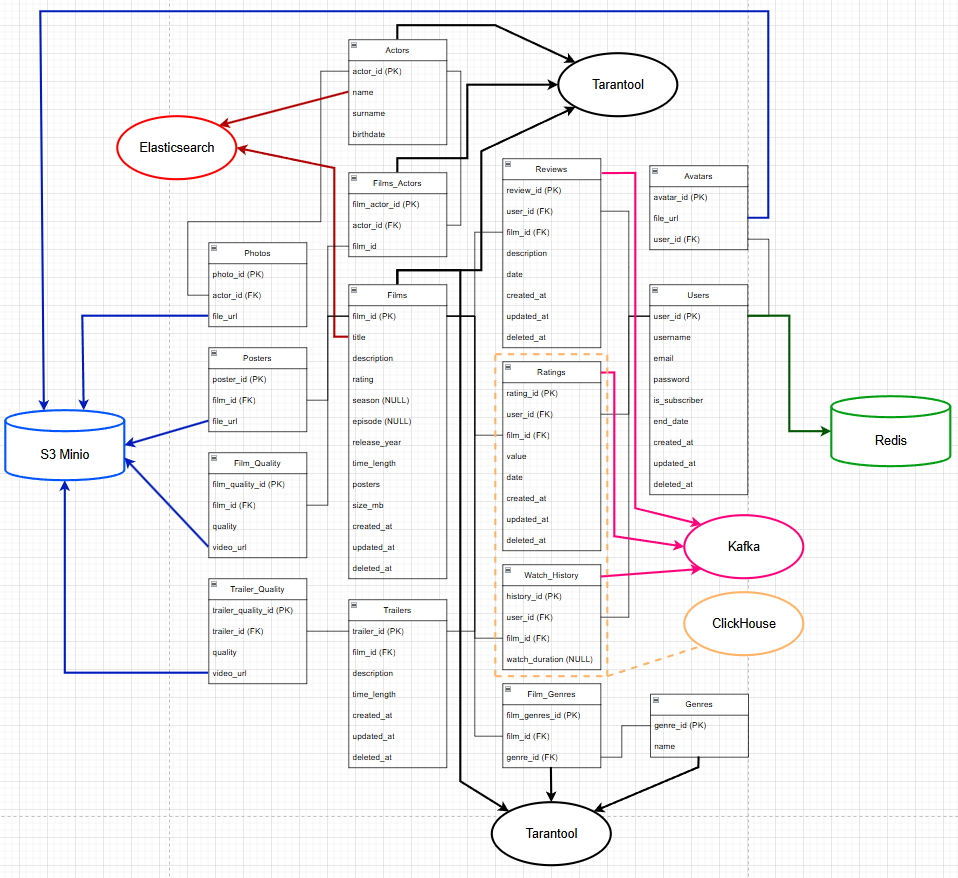
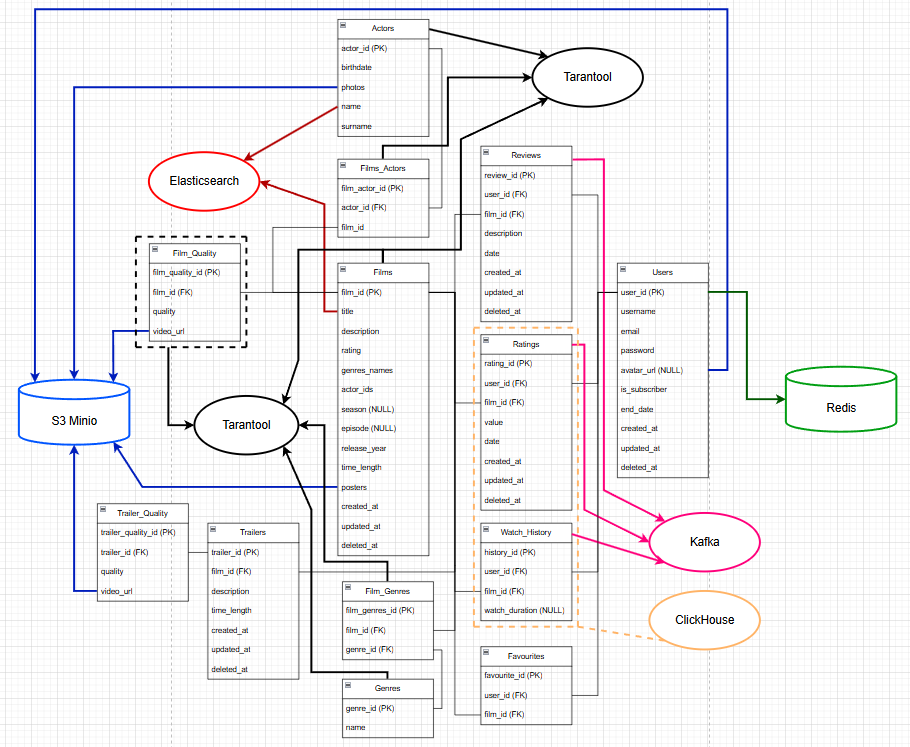
fix: task 5 and 6

Changed region(s): [[0.0, 0.0, 1.0, 1.0], [0.8308, 0.6158, 0.8615, 0.6466], [0.1846, 0.0, 0.2154, 0.0308]]

diff --git a/README.md b/README.md
@@ -60,11 +60,11 @@
 
 ## Продуктовые метрики
 
-Всего на Кинопоиске к концу 2023г. около **11000** тайтлов[^6].
+К началу 2021г. база данных кинопоиска состояла из 817 000 фильмов и сериалов[^6]. Будем считать что к текущему моменту база выросла до 1 000 000 фильмов. При этом, к концу 2023г. лишь около **11000** тайтлов можно посмотреть[^7].
 
-Средняя продолжительность фильма в последние годы возросла до 120-130 минут, согласно анализу данных базы IMDB[^7]. Также, одна серия одного сериала в среднем занимает 40 минут. 
+Средняя продолжительность фильма в последние годы возросла до 120-130 минут, согласно анализу данных базы IMDB[^8]. Также, одна серия одного сериала в среднем занимает 40 минут. 
 
-Таким образом, средний размер одного файла в разрешении **4K** составляет **35 ГБ** (20 ГБ одна 40-минутная серия сериала и 50 ГБ двухчасовой фильм[^8] => (20 ГБ + 50 ГБ)/2 = 35ГБ). Это даёт:
+Таким образом, средний размер одного файла в разрешении **4K** составляет **35 ГБ** (20 ГБ одна 40-минутная серия сериала и 50 ГБ двухчасовой фильм[^9] => (20 ГБ + 50 ГБ)/2 = 35ГБ). Это даёт:
 
 - **Общий объём 4K контента:**
   - `11000 × 35 ГБ = 280000 ГБ = 280 ТБ = 0,385 ПБ`
@@ -79,7 +79,7 @@
 Итоговый объем видеохранилища: **0,562 ПБ**
 
 Далее высчитаем объем пользовательских данных
-К пользовательской информации относятся имя, возраст, описание, пол, страна и город проживания, ссылки на соцсети и интересы. Данная текстовая информация занимает до нескольких килобайт. Кроме того пользователь мжет поставить аватарку на свой профиль. На странице редактирования профиля[^9] можно увидеть информацию о том, что аватар пользователя не должен превышать 2 МБ. Примем эту верхнюю оценку.
+К пользовательской информации относятся имя, возраст, описание, пол, страна и город проживания, ссылки на соцсети и интересы. Данная текстовая информация занимает до нескольких килобайт. Кроме того пользователь мжет поставить аватарку на свой профиль. На странице редактирования профиля[^10] можно увидеть информацию о том, что аватар пользователя не должен превышать 2 МБ. Примем эту верхнюю оценку.
 Расчитаем, насколько ужимается аватар, после её загрузки в профиль на практике.
 
 ![Демографические показатели](assets/squeeze.png)
@@ -92,7 +92,7 @@
 
 Хранение рецензий и оценок
 - **Средний вес одной рецензии:** **1 КБ** (1000 символов ASCII)
-- **Общее количество рецензий:** **834 641**[^10]
+- **Общее количество рецензий:** **834 641**[^11]
 - **Общий объем рецензий:**
   - `1 КБ × 834 641 = 0,8 ГБ`
 - **Запас хранения + оценки:** **1 ГБ**
@@ -111,10 +111,10 @@
 
 - **Авторизация** — в среднем **1 раз в день** (просмотр контента требует авторизации).
 - **Покупка подписки** — обычно пользователь покупает подписку ежемесячно, но так же есть возможно офромить ее на 3, 6 и 12 месяцев. Примем за среднее - 3 месяца, поэтому 1/90 = значит **0,01 раз в день**.
-- **Просмотр контента** — в 2024 году подписчики в среднем смотрят **34,6 тайтлов** и **11 спортивных трансляций** в год[^11]. Примем длительность спортивного события равной средней длительности одного тайтла - 2 часа. Тогда всего за год пользователь смотрит 45,6 * 2 = 91,2 часов. Это равняется 91,2*60/365 = **15 минут в день**.
+- **Просмотр контента** — в 2024 году подписчики в среднем смотрят **34,6 тайтлов** и **11 спортивных трансляций** в год[^12]. Примем длительность спортивного события равной средней длительности одного тайтла - 2 часа. Тогда всего за год пользователь смотрит 45,6 * 2 = 91,2 часов. Это равняется 91,2*60/365 = **15 минут в день**.
 - **Оценка контента** — в 2023 году пользователи оставили **180 млн оценок**, это **6 млн оценок в день**, или **~0,27 оценок на пользователя в день**.
 - **Оставление рецензий** — на платформе **834 641 рецензий**, ежедневно публикуются **~400 новых**, значит **~0,000018 рецензий на пользователя в день**.
-- **Поиск контента** — **4 раза в день**[^12].
+- **Поиск контента** — **4 раза в день**[^13].
 - **Рекомендации** — рекомендательная система строится на основе просмотра интересующего контента и оставлении оценки, а значит перестраивается примерно 0,27 р/день + 15 мин/день **≈ 1 раз в день**.
 - **Добавление в избранное** - по статистике лишь каждый 10-ый фильм пользователь добавляет в избранное, а значит 4*0,1 **~ 0,4 раза в день**
 - **Досмотр контента** - в среднем пользователь заходит на главную страницу **1 раз в день**, но долистывает до списка **каждый 10**, то частота **≈ 0,1 раз в день**
@@ -134,9 +134,9 @@
 
 ### Прирост дискового пространства
 
-Согласно источнику[^13], на конец 2023г, количество подписчиков Кинопоиска на конец 2023г. составляло 11,1 млн. чел. При этом, к концу 2024г. их количество возросло до 14 млн. чел. Значит прирост пользовательских данных за год составляет **(14 000 000 - 11 100 000) * 2 МБ / 22 ≈ 264 000 МБ = 0,264 ТБ**
+Согласно источнику[^14], на конец 2023г, количество подписчиков Кинопоиска на конец 2023г. составляло 11,1 млн. чел. При этом, к концу 2024г. их количество возросло до 14 млн. чел. Значит прирост пользовательских данных за год составляет **(14 000 000 - 11 100 000) * 2 МБ / 22 ≈ 264 000 МБ = 0,264 ТБ**
 
-Как уже было сказано, на Кинопоиске к концу 2023г. было **11000** тайтлов. При этом, к середине 2020г. их было около **8000**[^14]. На основании чего можно сделать вывод, что за год количество тайтлов возрастает примерно на **1000**. Как уже было вычислено, для **11000** тайтлов размер видеохранилища составляет **0,562 ПБ**. Значит прирост дискового пространства в год составит **1/11** часть: **0,562 ПБ / 11 ≈ 0,051 ПБ**
+Как уже было сказано, на Кинопоиске к концу 2023г. было **11000** тайтлов. При этом, к середине 2020г. их было около **8000**[^15]. На основании чего можно сделать вывод, что за год количество тайтлов возрастает примерно на **1000**. Как уже было вычислено, для **11000** тайтлов размер видеохранилища составляет **0,562 ПБ**. Значит прирост дискового пространства в год составит **1/11** часть: **0,562 ПБ / 11 ≈ 0,051 ПБ**
 
 Прирост рецензий и оценок незначителен (порядка 0,5 ГБ), так что ими можно пренебречь.
 
@@ -354,17 +354,18 @@ Kubernetes автоматически распределяет нагрузку 
 - Trailers (1) <--- (M) Trailers_Quality
 - Users (1) <--- (M) Reviews
 - Users (1) <--- (M) Ratings
-- Users (1) <--- (1) Avatars
 - Users (1) <--- (M) Sessions
 - Films (1) <--- (M) Watch_History
 - Users (1) <--- (M) Watch_History
+- Films (1) <--- (M) Favourites
+- Users (1) <--- (M) Favourites
 - Actors (1) <--- (M) Photos
 
 ## Размер данных, консистентность, нагрузка на чтение/запись
 
 | Таблица         | Размер данных | Консистентность | Нагрузка на чтение (RPS) | Нагрузка на запись (RPS) |
 |----------------|--------------|----------------|-----------------|-----------------|
-| Films         | (title (100 байт) + description (500 байт) + rating (4 байта) + release_year (4 байта) + time_length (4 байта) + size_mb (4 байта)) * 11 000 * 4 (разрешения) = **0.0323 ГБ** | Удаляются связанные `film_actors`, `film_genres`, `reviews`. Для `film_quality` - мягкое удаление | Поиск контента (**120** RPS) + Рекомендации (**30** RPS) = **150** RPS | - |
+| Films         | (title (100 байт) + description (500 байт) + rating (4 байта) + release_year (4 байта) + time_length (4 байта) + size_mb (4 байта)) * 1 000 000 = **587.46 ГБ** | Удаляются связанные `film_actors`, `film_genres`, `reviews`. Для `film_quality` - мягкое удаление | Поиск контента (**120** RPS) + Рекомендации (**30** RPS) = **150** RPS | - |
 | Film_Quality  | (film_quality_id (4 байта) + film_id (4 байта) + quality (20 байт) + video_url (100 байт)) * 11 000 * 4 = **0.0055 ГБ** | - | Поиск контента (**120** RPS) | - |
 | Actors        | (name (50 байт) + surname (50 байт) + birthdate (4 байта) + photos (100 байт)) * 150 000 = **0.0285 ГБ** | Удаляются связанные `photos`, `film_actors` | Поиск контента (**120** RPS) | - |
 | Users        | (username (50 байт) + email (100 байт) + password (60 байт) + is_subscriber (1 байт) + end_date (8 байт)) * 24 млн = **4.72 ГБ** | Удаляются связанные `avatars`, `reviews`, `sessions` | Авторизация (**30** RPS) + Рекомендации (**30** RPS) = **60** RPS | Авторизация (**30** RPS) + Покупка подписки (**0.3** RPS) = **30.3** RPS |
@@ -392,7 +393,7 @@ Kubernetes автоматически распределяет нагрузку 
 
 ### **2. Elasticsearch**  
 Поисковый движок для быстрого поиска фильмов и актёров:  
-- Поиск по названию, описанию, жанрам  
+- Поиск по названию фильма/сериала и актёрам.
 - Исправление опечаток  
 - Фильтрация и сортировка результатов  
 
@@ -409,9 +410,9 @@ Kubernetes автоматически распределяет нагрузку 
 
 ### **5. Tarantool**  
 Высокопроизводительный кэш перед PostgreSQL:  
-- Быстрое получение данных о фильмах и актёрах  
-- Снижение нагрузки на основную базу  
-- Обновление данных с определённой периодичностью  
+- Хранит готовые подборки фильмов по жанрам 
+- Хранит все фильмы одного актера (1000 записей) и обновляется по правилу least recently used  
+- Хранит таблицу film_quality для быстрой раздачи фильмов
 
 ### **6. Kafka**  
 Очередь сообщений для обработки событий:  
@@ -424,12 +425,6 @@ Kubernetes автоматически распределяет нагрузку 
 - Подсчёт просмотров, популярных жанров и актёров  
 - Анализ поведения пользователей  
 - Формирование трендов и рекомендаций  
-
-### **8. Prometheus**  
-Мониторинг системы:  
-- Сбор метрик нагрузки и производительности  
-- Мониторинг базы данных, очередей сообщений и кэша  
-- Отслеживание аномалий и проблем в работе сервиса
 
 ## Физическая схема
 
@@ -455,6 +450,12 @@ Kubernetes автоматически распределяет нагрузку 
 
 - **`sha256`**  
   - `Users.password` — пароль захэширован в формате sha256.  
+
+- **`JSONB`**  
+  - `Films.genres_names` — жанры фильма.  
+  - `Films.actor_ids` — актеры фильма.  
+  - `Film.posters` — постеры фильма. 
+  - `Actor.photos` — фото актёров. 
 
 ## Схема S3 хранилища
 
@@ -538,44 +539,72 @@ root/
 
 ## Шардирование
 
-Для эффективного масштабирования мы будем использовать шардирование в нескольких сервисах.  
+Для эффективного масштабирования мы будем использовать шардирование в нескольких таблицах. С помощью Range Based шардирования можно распределить таблицы на шарды по 1 млн. записей, чтобы эффективно управлять ими.
 
-### Redis  
-- С помощью Redis Cluster можно равномерно распределить нагрузку на кэширование сессий пользователей.  
-- Каждый региональный дата-центр будет хранить узед, который судет обслуживать пользователей, исходя из его региона, снижая задержки. После авторизации пользователю выдают JWT-токен, который сохрпаняется в сессию на локальном ДЦ:
+- Таблицы, шардируемые по **film_id**
+  - Films
+  - Revies
+  - Ratings
 
-```redis
-SET session:56789 'eyJhbGciOiJIUzI1NiIsInR5cCI6IkpXVCIsImV4cCI6MTYxNjI0MjYyMn0.eyJ1c2VyX2lkIjoxMjM0NTYsImVtYWlsIjoidXNlckBleGFtcGxlLmNvbSJ9.xYZ' EX 43200
+```sql
+CREATE TABLE films (
+    film_id SERIAL PRIMARY KEY,
+    title TEXT,
+    description TEXT,
+    rating FLOAT
+) PARTITION BY RANGE (film_id);
 ```
 
-### PostgreSQL  
-- С помощью Range Based шардирования можно распределить пользователей на шарды по 1 млн. чел., чтобы эффективно управлять пользователями.  
+- Таблицы, шардируемые по **user_id**
+  - Watch_history
+  - Favourites
 
-```postgres
-CREATE TABLE users (
-    user_id SERIAL PRIMARY KEY,
-    username TEXT,
-    email TEXT,
-    created_at TIMESTAMP DEFAULT now()
+```sql
+CREATE TABLE watch_history (
+    history_id SERIAL PRIMARY KEY,
+    user_id INT NOT NULL,
+    film_id INT NOT NULL,
+    watch_duration FLOAT
 ) PARTITION BY RANGE (user_id);
 ```
 
-### ClickHouse  
-- При шардировании Postgres, таблица Watch_History шардируется по user_id (чтобы быстро находить просмотры конкретного пользователя), а таблица Ratings шардируется по film_id (чтобы эффективно агрегировать средние рейтинги).
-- Используем Distributed Tables, которая маршрутизирует запросы к таблицам по шардам, чтобы оптимально хранить и анализировать данные о просмотрах фильмов и пользовательской активности.
-
-```postgres
-CREATE TABLE watch_history_shard ON CLUSTER my_cluster (
-    history_id UUID,
-    user_id UUID,
-    film_id UUID,
-    watch_duration UInt32,
-    timestamp DateTime DEFAULT now()
-) ENGINE = MergeTree()
-ORDER BY (user_id, timestamp);
+- Для каждого шарда создаем партиции
+```sql
+CREATE TABLE films_shard_1 PARTITION OF films FOR VALUES FROM (1) TO (1000000);
+CREATE TABLE films_shard_2 PARTITION OF films FOR VALUES FROM (1000000) TO (2000000);
 ```
 
-### Клиентские библиотеки / интеграции  
+## Elasticsearch
+
+Elasticsearch поможем искать фильмы и сериалы по их названию, а также актёров по их имени и фамилии наиболее быстро и эффективно, без использования `LIKE %...%`
+
+### Индекс `films` (поиск по фильмам и сериалам) 
+```json
+{
+  "film_id": 123,
+  "title": "Inception"
+}
+```
+
+### Индекс `actors` (поиск по имени и фамилии актёра) 
+```json
+{
+  "actor_id": 1,
+  "name": "Leonardo",
+  "surname": "DiCaprio"
+}
+```
+
+## Индексирование
+Для оптимизации запросов в базе данных используются **индексы**. В нашем онлайн-кинотеатре применяется **B-Tree индекс** для большинства таблиц, так как необходим продвинутый навигатор для поиска фильмов в каком-то диапазоне, например, диапазон по годам; диапазон по оценкам; диапазон по бюджету и т.д. Поскольку **B-Tree** лучше чем **Hash** при поиске в котором используется `BETWEEN`, то именно его мы и будем использовать для индексирования `"WHERE-значений"`.
+
+Например:
+```sql
+CREATE INDEX years_value_idx ON release_year (value);
+CREATE INDEX ratings_value_idx ON ratings (value);
+```
+
+## Клиентские библиотеки / интеграции  
 
 - **Elasticsearch**: Go - [olivere/elastic](https://github.com/olivere/elastic)  
 
@@ -589,11 +618,9 @@ ORDER BY (user_id, timestamp);
 
 - **ClickHouse**: Go - [clickhouse/clickhouse-go](https://github.com/ClickHouse/clickhouse-go)  
 
-- **Prometheus**: Go - [prometheus/client_golang](https://github.com/prometheus/client_golang)  
-
 - **Kafka**: Go - [confluentinc/confluent-kafka-go](https://github.com/confluentinc/confluent-kafka-go)
 
-### Балансировка запросов / мультиплексирование подключений  
+## Балансировка запросов / мультиплексирование подключений  
 
 **Odyssey Proxy** будет мультиплексировать запросы в **PostgreSQL**.  
 Используя Postgres Driver, Odyssey сможет эффективно управлять соединениями с базой данных, снижая нагрузку на PostgreSQL. Если в **Tarantool** нет запрашиваемых данных, пользовательский запрос будет перенаправлен в PostgreSQL через Odyssey. Это уменьшит накладные расходы на установку соединений и повысит производительность системы.  
@@ -630,20 +657,22 @@ ORDER BY (user_id, timestamp);
 
 [^5]: [Статистика от WebArchive](https://web.archive.org/web/20231129184042/https://radar.yandex.ru/yandex?month=2022-05)
 
-[^6]: [Комментарий пресс-службы Кинопоиска РБК](https://www.rbc.ru/technology_and_media/16/11/2023/65548b529a7947815e93d67b)
+[^7]: [Комментарий пресс-службы Кинопоиска РБК](https://www.rbc.ru/technology_and_media/16/11/2023/65548b529a7947815e93d67b)
 
-[^7]: [Средняя продолжительность фильмов](https://www.vedomosti.ru/gorod/leisuretime/articles/barbi-oppengeimer-i-avatar-pochemu-filmi-stali-takimi-dlinnimi)
+[^8]: [Средняя продолжительность фильмов](https://www.vedomosti.ru/gorod/leisuretime/articles/barbi-oppengeimer-i-avatar-pochemu-filmi-stali-takimi-dlinnimi)
 
-[^8]: [Вес видео в формате 4к](https://webos-forums.ru/post90619.html)
+[^9]: [Вес видео в формате 4к](https://webos-forums.ru/post90619.html)
 
-[^9]: [Страница редактирования профиля](https://www.kinopoisk.ru/mykp/edit_main/)
+[^10]: [Страница редактирования профиля](https://www.kinopoisk.ru/mykp/edit_main/)
 
-[^10]: [Рецензии на кинопоиске](https://www.kinopoisk.ru/reviews/)
+[^11]: [Рецензии на кинопоиске](https://www.kinopoisk.ru/reviews/)
 
-[^11]: [Итоги 2024 года](https://habr.com/ru/news/868442/)
+[^12]: [Итоги 2024 года](https://habr.com/ru/news/868442/)
 
-[^12]: [Исследование страницы персоны Кинопоиска](https://medium.com/@IngMaeSing/kinopoisk-person-page-research-4f33e5b4d318)
+[^13]: [Исследование страницы персоны Кинопоиска](https://medium.com/@IngMaeSing/kinopoisk-person-page-research-4f33e5b4d318)
 
-[^13]: [Подписчики российских онлайн-кинотеатров на конец 2023г.](https://vc.ru/media/1009380-kolichestvo-podpischikov-u-rossiiskih-onlain-kinoteatrov-na-konec-2023-goda-prevysilo-452-mln-telecomdaily)
+[^14]: [Подписчики российских онлайн-кинотеатров на конец 2023г.](https://vc.ru/media/1009380-kolichestvo-podpischikov-u-rossiiskih-onlain-kinoteatrov-na-konec-2023-goda-prevysilo-452-mln-telecomdaily)
 
-[^14]: [Информация о подписке Яндекс.Плюс](https://www.kinopoisk.ru/media/news/4002246/)
+[^15]: [Информация о подписке Яндекс.Плюс](https://www.kinopoisk.ru/media/news/4002246/)
+
+[^6]: [Полная база данных Кинопоиска](https://zerocoolpro.biz/forum/threads/polnaja-baza-dannyx-kinopoiska.19775/)
